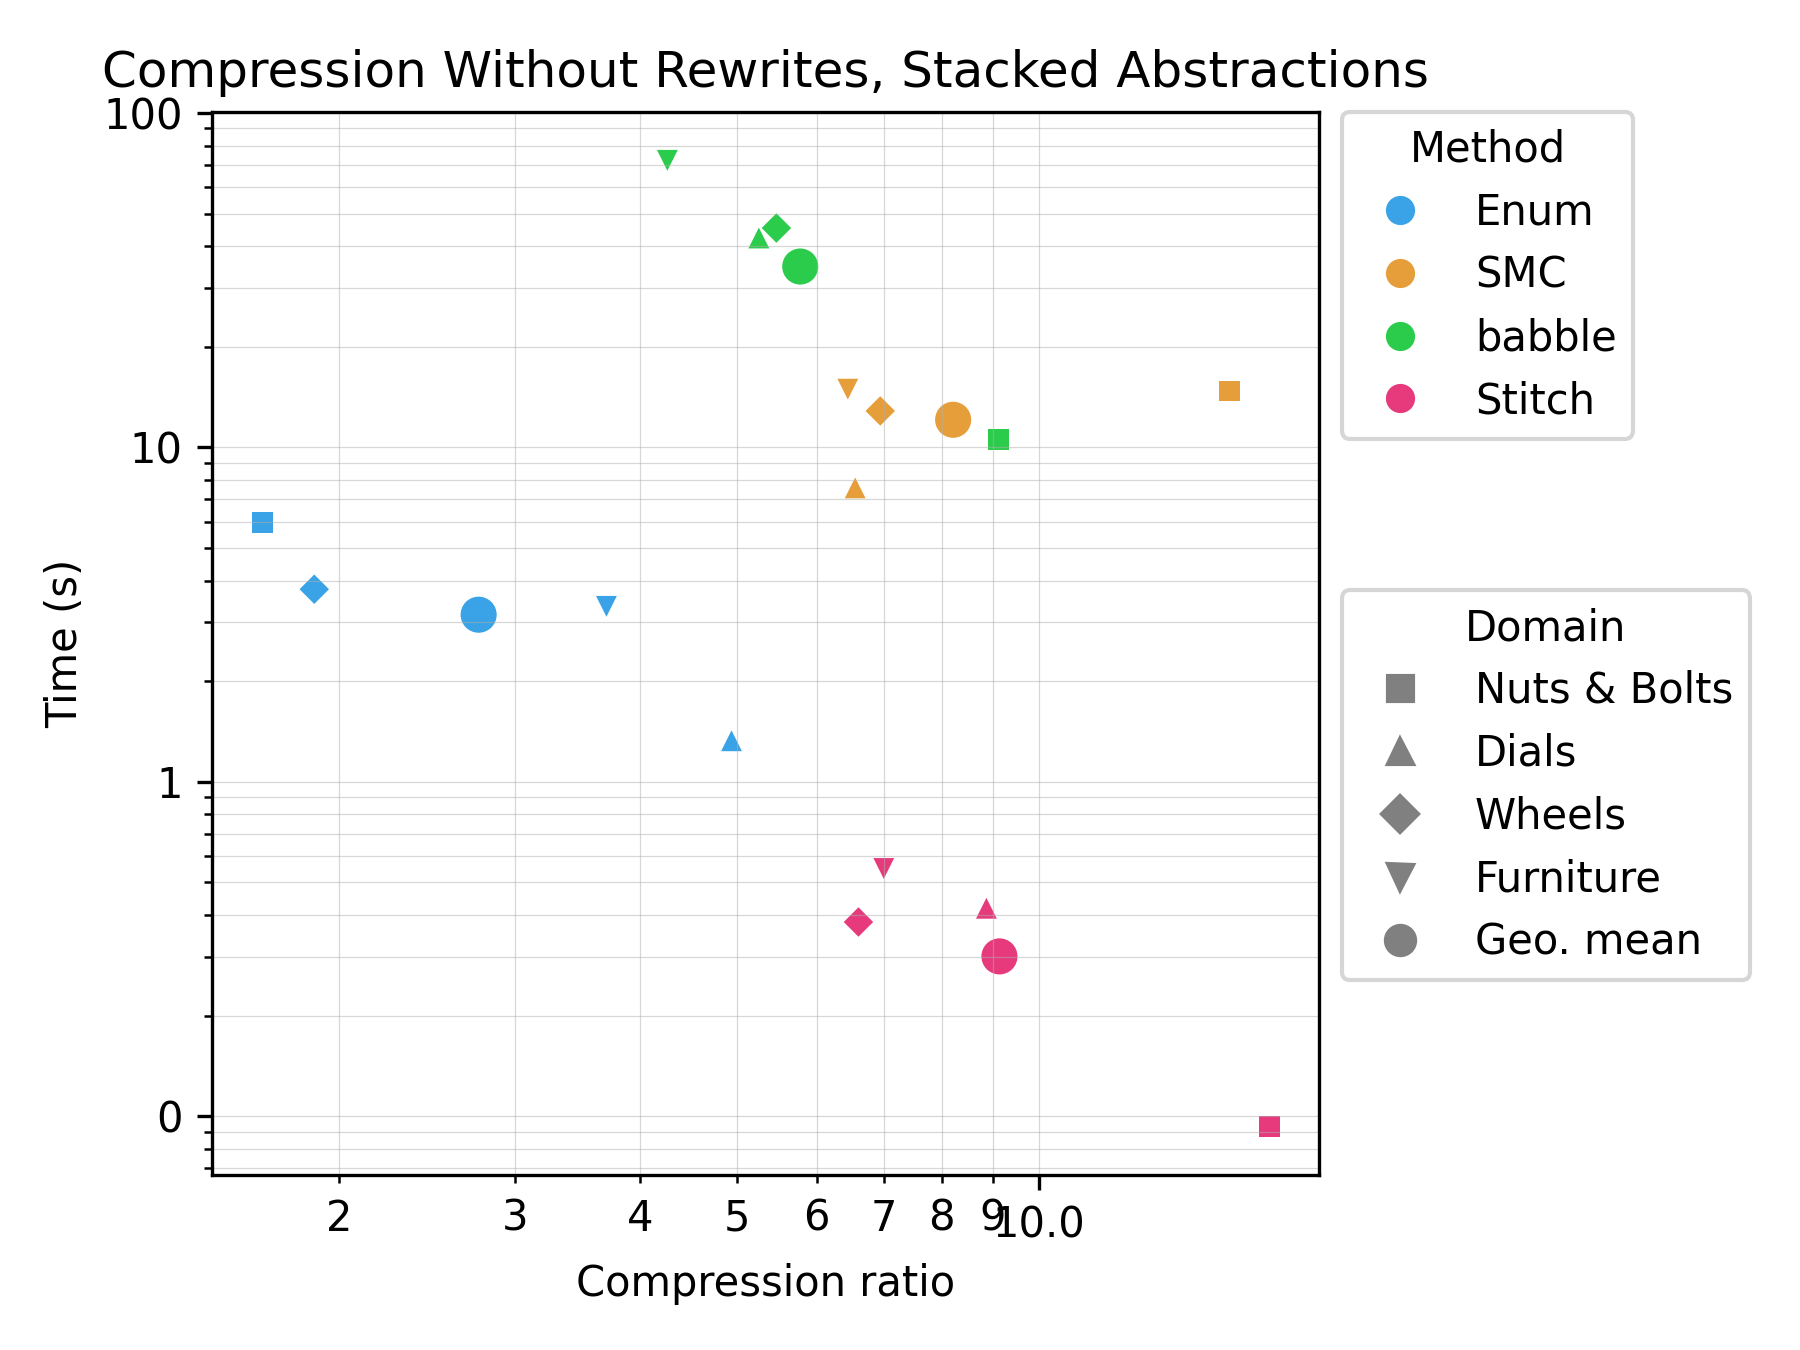
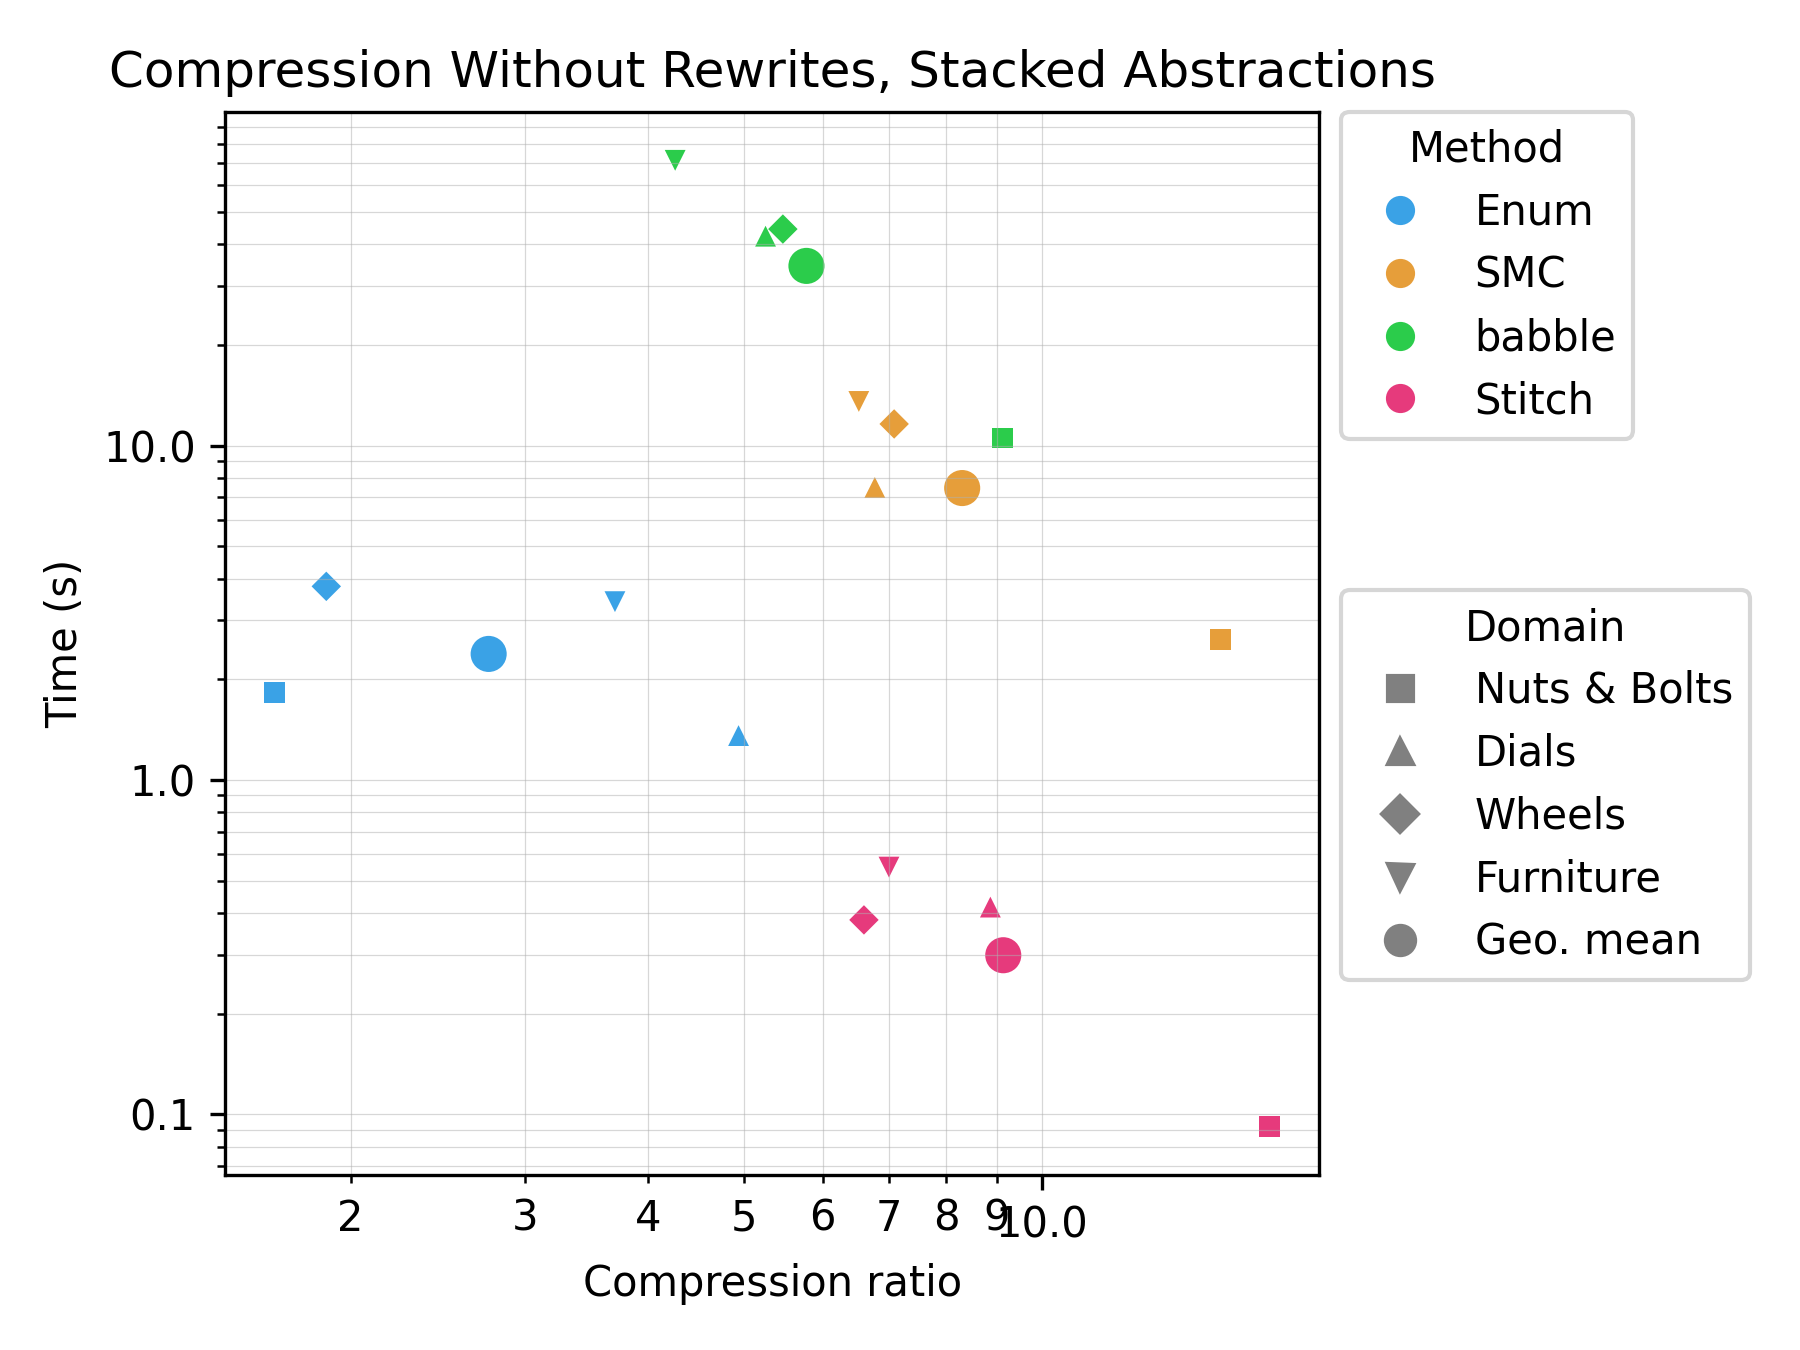
output latex tables when running render_table

diff --git a/scripts/render_tables.py b/scripts/render_tables.py
@@ -1,12 +1,12 @@
 #!/usr/bin/env python3
-"""Render Table 1-4 JSON result files as LaTeX tabulars (and plots).
+"""Render Table 1-4 JSON result files as LaTeX tabulars and PNG plots.
 
-By default, picks the newest timestamped run under
-``viz/results/tableN/<timestamp>/tableN.json``. Pass an explicit JSON path to
-override. Compression ratio and time are aggregated across runs with a
-geometric mean, matching ``expts.table1.print_table1``. Pass ``--plot`` to
-also emit a log-log scatter of compression ratio vs time (one dot per run;
-color = method, marker = domain).
+Picks the newest timestamped run under
+``viz/results/tableN/<timestamp>/tableN.json`` and writes
+``figures/tableN.tex`` (LaTeX tabular) plus ``figures/tableN.png`` (log-log
+scatter of compression ratio vs time; color = method, marker = domain).
+Compression ratio and time are aggregated across runs with a geometric mean,
+matching ``expts.table1.print_table1``.
 """
 
 import argparse
@@ -304,20 +304,20 @@ def plot(saved: dict, table: int, out_path: Path) -> None:
 
 
 def main() -> None:
-    """Render both tables as LaTeX (stdout) and PNG plots (``figures/``)."""
+    """Render each table as a LaTeX file and PNG plot under ``figures/``."""
     argparse.ArgumentParser(description=__doc__).parse_args()
 
     FIGURES_DIR.mkdir(exist_ok=True)
-    chunks = []
     for table in (1, 2, 3, 4):
         path = latest_json(table)
         with open(path) as f:
             saved = json.load(f)
-        chunks.append(f"% source: {path}\n" + render(saved, table))
+        tex_path = FIGURES_DIR / f"table{table}.tex"
+        tex_path.write_text(f"% source: {path}\n" + render(saved, table) + "\n")
+        print(f"wrote {tex_path}", file=sys.stderr)
         plot_path = FIGURES_DIR / f"table{table}.png"
         plot(saved, table, plot_path)
         print(f"wrote {plot_path}", file=sys.stderr)
-    print("\n\n".join(chunks))
 
 
 if __name__ == "__main__":

diff --git a/figures/table3.tex b/figures/table3.tex
@@ -1,0 +1,16 @@
+% source: /home/kavi/mit/egg-stitch/viz/results/table3/2026-04-27_11-13-26/table3.json
+% Compression Using Rewrites, Stacked Abstractions: generated from results JSON
+\begin{tabular}{l r r rrrr rrrr}
+\toprule
+& \multicolumn{2}{c}{Size} & \multicolumn{4}{c}{Compression Ratio} & \multicolumn{4}{c}{Time (s)} \\
+\cmidrule(lr){2-3} \cmidrule(lr){4-7} \cmidrule(lr){8-11}
+Domain & Original & E-graph min & Enum & SMC & babble & Stitch & Enum & SMC & babble & Stitch \\
+\midrule
+Nuts \& Bolts & 19009 & 19267 & 8.62 & \textbf{16.38} & 10.43 & N/A & \textbf{1.462} & 11.425 & 22.387 & N/A \\
+Dials & 35713 & 20884 & 5.61 & \textbf{9.78} & 7.09 & N/A & \textbf{0.826} & 5.537 & 44.281 & N/A \\
+Wheels & 35427 & 30308 & 1.91 & \textbf{8.84} & 6.44 & N/A & \textbf{1.469} & 8.330 & 43.143 & N/A \\
+Furniture & 42936 & 37268 & 3.27 & \textbf{6.91} & 4.56 & N/A & \textbf{3.105} & 13.458 & 60.732 & N/A \\
+\midrule
+Geo. mean &  &  & 4.17 & \textbf{9.95} & 6.82 & N/A & \textbf{1.532} & 9.177 & 40.145 & N/A \\
+\bottomrule
+\end{tabular}

diff --git a/figures/table1.tex b/figures/table1.tex
@@ -1,0 +1,16 @@
+% source: /home/kavi/mit/egg-stitch/viz/results/table1/2026-04-27_10-57-05/table1.json
+% Compression Using Rewrites: generated from results JSON
+\begin{tabular}{l r r rrrr rrrr}
+\toprule
+& \multicolumn{2}{c}{Size} & \multicolumn{4}{c}{Compression Ratio} & \multicolumn{4}{c}{Time (s)} \\
+\cmidrule(lr){2-3} \cmidrule(lr){4-7} \cmidrule(lr){8-11}
+Domain & Original & E-graph min & Enum & SMC & babble & Stitch & Enum & SMC & babble & Stitch \\
+\midrule
+Nuts \& Bolts & 19009 & 19016 & 1.24 & 1.75 & \textbf{1.75} & N/A & \textbf{0.376} & 1.304 & 11.463 & N/A \\
+Dials & 35713 & 20618 & 2.07 & 2.08 & \textbf{2.17} & N/A & \textbf{0.075} & 0.627 & 29.106 & N/A \\
+Wheels & 35427 & 30264 & \textbf{1.45} & \textbf{1.45} & 1.36 & N/A & 0.280 & \textbf{0.254} & 8.828 & N/A \\
+Furniture & 42936 & 37079 & 1.31 & \textbf{1.70} & 1.39 & N/A & \textbf{0.281} & 0.856 & 14.691 & N/A \\
+\midrule
+Geo. mean &  &  & 1.49 & \textbf{1.73} & 1.63 & N/A & \textbf{0.217} & 0.649 & 14.423 & N/A \\
+\bottomrule
+\end{tabular}

diff --git a/figures/table4.tex b/figures/table4.tex
@@ -1,0 +1,16 @@
+% source: /home/kavi/mit/egg-stitch/viz/results/table4/2026-04-27_11-49-31/table4.json
+% Compression Without Rewrites, Stacked Abstractions: generated from results JSON
+\begin{tabular}{l r  rrrr rrrr}
+\toprule
+& \multicolumn{1}{c}{Size} & \multicolumn{4}{c}{Compression Ratio} & \multicolumn{4}{c}{Time (s)} \\
+\cmidrule(lr){2-2} \cmidrule(lr){3-6} \cmidrule(lr){7-10}
+Domain & Original & Enum & SMC & babble & Stitch & Enum & SMC & babble & Stitch \\
+\midrule
+Nuts \& Bolts & 19009 & 1.68 & 15.16 & 9.11 & \textbf{16.99} & 1.831 & 2.634 & 10.535 & \textbf{0.092} \\
+Dials & 35713 & 4.93 & 6.77 & 5.25 & \textbf{8.87} & 1.358 & 7.497 & 42.295 & \textbf{0.417} \\
+Wheels & 35427 & 1.89 & \textbf{7.09} & 5.47 & 6.61 & 3.794 & 11.607 & 44.417 & \textbf{0.382} \\
+Furniture & 42936 & 3.70 & 6.53 & 4.26 & \textbf{7.00} & 3.415 & 13.554 & 71.307 & \textbf{0.549} \\
+\midrule
+Geo. mean &  & 2.76 & 8.30 & 5.78 & \textbf{9.14} & 2.382 & 7.466 & 34.467 & \textbf{0.299} \\
+\bottomrule
+\end{tabular}

diff --git a/figures/table2.tex b/figures/table2.tex
@@ -1,0 +1,16 @@
+% source: /home/kavi/mit/egg-stitch/viz/results/table2/2026-04-27_11-08-28/table2.json
+% Compression Without Rewrites: generated from results JSON
+\begin{tabular}{l r  rrrr rrrr}
+\toprule
+& \multicolumn{1}{c}{Size} & \multicolumn{4}{c}{Compression Ratio} & \multicolumn{4}{c}{Time (s)} \\
+\cmidrule(lr){2-2} \cmidrule(lr){3-6} \cmidrule(lr){7-10}
+Domain & Original & Enum & SMC & babble & Stitch & Enum & SMC & babble & Stitch \\
+\midrule
+Nuts \& Bolts & 19009 & 1.29 & 1.59 & 1.67 & \textbf{1.78} & 0.068 & 0.280 & 2.029 & \textbf{0.043} \\
+Dials & 35713 & 1.22 & 1.23 & 1.26 & \textbf{1.27} & 0.111 & 0.509 & 7.784 & \textbf{0.108} \\
+Wheels & 35427 & 1.22 & 1.24 & 1.14 & \textbf{1.24} & 0.293 & 0.289 & 4.627 & \textbf{0.110} \\
+Furniture & 42936 & 1.04 & 1.38 & 1.22 & \textbf{1.38} & 0.341 & 1.102 & 11.378 & \textbf{0.151} \\
+\midrule
+Geo. mean &  & 1.19 & 1.35 & 1.31 & \textbf{1.40} & 0.166 & 0.462 & 5.370 & \textbf{0.094} \\
+\bottomrule
+\end{tabular}
